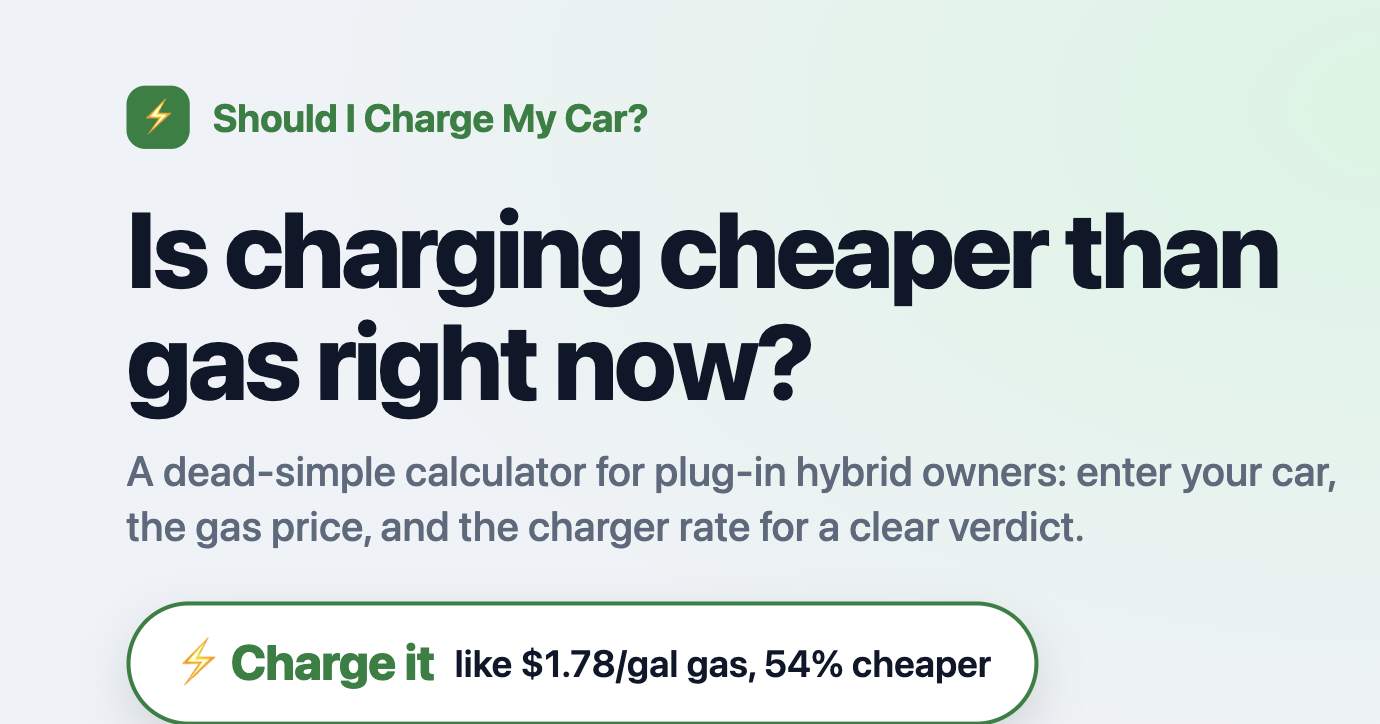
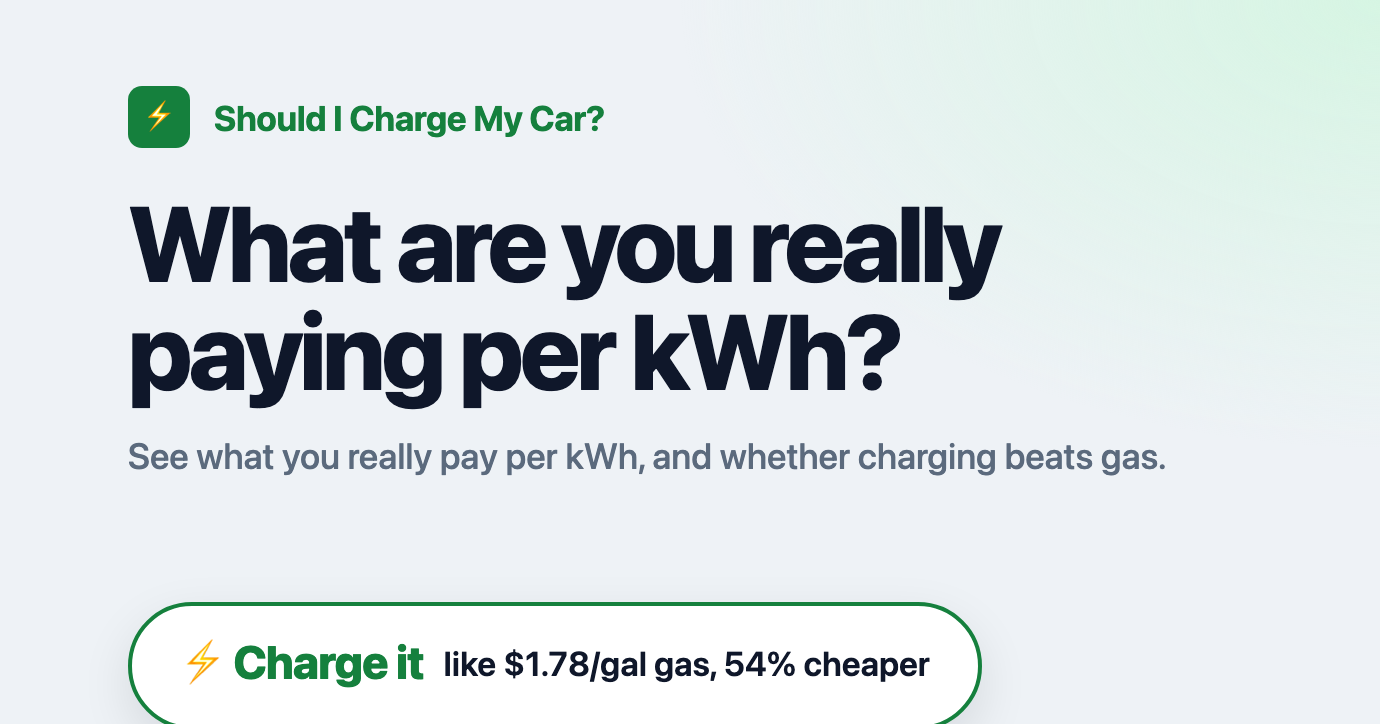
Describe the app for any car and fix two result card states
The tagline now reads "See what you really pay per kWh, and whether
charging beats gas." The app works the same for any car, so nothing
that describes it says it is for plug-in hybrid owners anymore: the
tab and link-preview titles, the search description, the structured
data, the no-JavaScript text, the install prompt, package.json, the
README and the link-preview image. The image now leads with "What are
you really paying per kWh?" with the tagline under it. Plug-in hybrids
are still named where they are the subject, like the car list and a
few FAQ answers.

It also fixes text that had gone out of date. The Charge time & cost
intro promised a price per kWh that the section doesn't show. The FAQ,
README and structured data counted 441 cars, which is 441 model years
of 176 models. The battery note called the size an EPA figure, but the
app estimates it from the EPA's electric range. The charger notes now
cover per-minute billing, prices that already include VAT, and 230 V
sockets. The FAQ now mentions saved cars and the currency and units
buttons.

The result card changes in two places. With My own car and MPG left
empty, it said "Pick your car" even though a car was picked. It now
names the missing field in your units, for example 'Fill in "Gas MPG"
under Adjust details', and still shows what the charge costs. A Charge
briefly card shows what the full charge costs again ("like $6.38/gal
gas, 64% pricier"), and the tip shows the short stop. Since July 28 the
[…]

diff --git a/index.html b/index.html
@@ -4,8 +4,8 @@
   <meta charset="UTF-8" />
   <meta name="viewport" content="width=device-width, initial-scale=1, viewport-fit=cover" />
   <meta name="theme-color" content="#15803d" />
-  <meta name="description" content="Is charging your plug-in hybrid cheaper than gas? Enter your car, gas price, and charger rate to get a straight answer plus your break-even price per kWh." />
-  <title>Should I Charge My Car? PHEV Charge-vs-Gas Calculator</title>
+  <meta name="description" content="See what you really pay per kWh at a charger, fees and all, and whether charging beats gas. Enter your car and the charger&rsquo;s price for a straight answer." />
+  <title>Should I Charge My Car? Charging Cost vs Gas Calculator</title>
 
   <!-- SEO + social link previews. Absolute URLs point at the custom domain;
        swapping this one base is enough if it ever changes again. Open Graph
@@ -16,29 +16,29 @@
   <meta property="og:type" content="website" />
   <meta property="og:site_name" content="Should I Charge My Car?" />
   <meta property="og:locale" content="en_US" />
-  <meta property="og:title" content="Should I Charge My Car? PHEV Charge-vs-Gas Calculator" />
-  <meta property="og:description" content="A dead-simple calculator that tells plug-in hybrid owners if charging is actually cheaper than gas right now, break-even price and all." />
+  <meta property="og:title" content="Should I Charge My Car? Charging Cost vs Gas Calculator" />
+  <meta property="og:description" content="A dead-simple calculator that shows what you really pay per kWh at a charger, and whether charging beats gas right now." />
   <meta property="og:url" content="https://shouldichargemycar.com/" />
   <meta property="og:image" content="https://shouldichargemycar.com/og-image.png" />
   <meta property="og:image:width" content="1380" />
   <meta property="og:image:height" content="724" />
-  <meta property="og:image:alt" content="Should I Charge My Car? A calculator that shows if charging a plug-in hybrid is cheaper than gas right now." />
+  <meta property="og:image:alt" content="Should I Charge My Car? What are you really paying per kWh? Example verdict: Charge it, like $1.78/gal gas, 54% cheaper." />
   <meta name="twitter:card" content="summary_large_image" />
   <meta name="twitter:image" content="https://shouldichargemycar.com/og-image.png" />
-  <meta name="twitter:image:alt" content="Should I Charge My Car? A calculator that shows if charging a plug-in hybrid is cheaper than gas right now." />
+  <meta name="twitter:image:alt" content="Should I Charge My Car? What are you really paying per kWh? Example verdict: Charge it, like $1.78/gal gas, 54% cheaper." />
   <script type="application/ld+json">
   {
     "@context": "https://schema.org",
     "@type": "WebApplication",
     "name": "Should I Charge My Car?",
     "url": "https://shouldichargemycar.com/",
-    "description": "A free calculator that tells plug-in hybrid (PHEV) owners whether charging is cheaper than gasoline right now, including the break-even price per kWh and real charger fees.",
+    "description": "A free calculator that shows what you really pay per kWh at a charger, real charger fees included, and whether charging is cheaper than gasoline right now, with the break-even price per kWh.",
     "applicationCategory": "UtilitiesApplication",
     "operatingSystem": "Any (web-based, installable PWA)",
     "browserRequirements": "Requires JavaScript",
     "inLanguage": "en",
     "isAccessibleForFree": true,
-    "dateModified": "2026-09-15",
+    "dateModified": "2026-10-09",
     "sameAs": "https://github.com/iCloud17/should-I-charge-my-car",
     "publisher": {
       "@type": "Organization",
@@ -52,7 +52,9 @@
       "Break-even price per kWh",
       "Real charger fees: time-of-day, by-duration, session and per-hour fees, taxes",
       "Charge-time and range estimate",
-      "441 plug-in hybrids from EPA data",
+      "176 plug-in hybrid models (2012 to 2026) from EPA data",
+      "Save several cars on your device",
+      "12 currencies, with US, UK and metric units",
       "Works offline, installable PWA, no login"
     ],
     "offers": { "@type": "Offer", "price": "0", "priceCurrency": "USD" }
@@ -81,7 +83,7 @@
          never see it. Gives non-JS crawlers (and AI retrieval bots that don't
          render JS) a plain-text description of what the tool does. -->
     <noscript>
-      <p>Should I Charge My Car? is a free calculator for plug-in hybrid (PHEV) owners. Enter your car, the local gas price, and the charger&rsquo;s price per kWh to see whether charging is cheaper than gas right now, including the break-even price per kWh and real charger fees. Please enable JavaScript to use the calculator.</p>
+      <p>Should I Charge My Car? is a free charging cost calculator. Enter your car and the charger&rsquo;s price per kWh to see what you really pay, fees included. Add the local gas price to see whether charging is cheaper than gas right now, and your break-even price per kWh. Please enable JavaScript to use the calculator.</p>
     </noscript>
     <header class="app__head">
       <div class="app__head-actions">
@@ -95,7 +97,7 @@
       </div>
       <div class="app__head-text">
         <h1 class="app__title">Should I Charge My Car?</h1>
-        <p class="app__tagline">See if charging your plug-in hybrid is cheaper than filling up on gas.</p>
+        <p class="app__tagline">See what you really pay per kWh, and whether charging beats gas.</p>
       </div>
     </header>
 
@@ -136,14 +138,13 @@
         document.getElementById("carTile").dataset.prepaintOpen = document.getElementById("carTile").open;
       </script>
       <div class="disclosure__body">
-        <!-- Saved cars. Empty and hidden until a SECOND car exists: one car needs
-             no switcher, and a user who owns one car must not pay for this. -->
+        <!-- Saved cars: hidden until the first car is saved. -->
         <div class="my-cars" id="myCarsRow" role="radiogroup" aria-label="Your saved cars" hidden></div>
         <div class="field">
           <div class="field-label-row">
             <label for="carSearch">Your car</label>
             <button type="button" id="carInfoBtn" class="info-btn" aria-label="Why isn't my exact year listed?" aria-expanded="false">i</button>
-            <p class="hint info-note" id="carInfoNote" hidden>Don&rsquo;t see your exact year? Pick the closest one. A PHEV&rsquo;s MPG and efficiency barely change within a generation, so the answer comes out about the same. Not listed, or want exact numbers? Pick &ldquo;My own car&rdquo; to enter your own.<br /><br />Car data: US EPA &amp; DOE (<a href="https://www.fueleconomy.gov" target="_blank" rel="noopener">fueleconomy.gov</a>).</p>
+            <p class="hint info-note" id="carInfoNote" hidden>Don&rsquo;t see your exact year? Pick the closest one. A car&rsquo;s MPG and efficiency barely change within a generation, so the answer comes out about the same. The list only has plug-in hybrids. Not listed, or want exact numbers? Pick &ldquo;My own car&rdquo; to enter your own.<br /><br />Car data: US EPA &amp; DOE (<a href="https://www.fueleconomy.gov" target="_blank" rel="noopener">fueleconomy.gov</a>).</p>
           </div>
           <div class="combo">
             <!-- enterkeyhint=done: Enter finishes with the picker and stays put. It never runs a search (filtering is live on input) and never advances a field. -->
@@ -196,11 +197,11 @@
               <div class="field-label-row">
                 <label for="batteryKwh">Battery size (kWh)</label>
                 <button type="button" id="batteryInfoBtn" class="info-btn" aria-label="What battery size should I use?" aria-expanded="false">i</button>
-                <p class="hint info-note" id="batteryInfoNote" hidden>Your car&rsquo;s <em>usable</em> capacity, the part you actually charge, not the full pack size a maker advertises. It&rsquo;s an EPA estimate, so it&rsquo;s approximate and can vary by year. It affects the charge time and total cost.</p>
+                <p class="hint info-note" id="batteryInfoNote" hidden>Your car&rsquo;s <em>usable</em> capacity, the part you actually charge, not the full pack size a maker advertises. For a car from the list, it&rsquo;s estimated from the EPA&rsquo;s electric range, so it&rsquo;s approximate and can vary by year.</p>
               </div>
               <input id="batteryKwh" type="text" min="0" step="any" inputmode="decimal" autocomplete="off" value="" />
             </div>
-            <p class="hint">Auto-filled from your car. Only change these if you track your own real-world numbers. MPG and mi/kWh drive the break-even. Battery size drives the charge time and total.</p>
+            <p class="hint">Filled in for cars from the list. Only change these if you track your own real-world numbers. The gas and electric figures set the break-even, and battery size sets the charge time and total.</p>
           </div>
         </details>
       </div>
@@ -278,7 +279,7 @@
             <div class="field-label-row">
               <label for="powerKw">Charge power</label>
               <button type="button" id="powerInfoBtn" class="info-btn" aria-label="What charge power should I enter?" aria-expanded="false">i</button>
-              <p class="hint info-note" id="powerInfoNote" hidden>The charger you&rsquo;re plugged into, not your car. Your car&rsquo;s onboard charger caps how fast it takes power. For a car from the list, the estimate already uses whichever is lower. With &ldquo;My own car&rdquo;, enter the lower one yourself. The speed sets how long the charge takes, which also changes the total if the station bills by the hour or by duration. Edit this when the charger&rsquo;s rate differs from the Level 1 or Level 2 presets. We treat anything above 22 kW as 22, the top of the common AC range. New charger puts it back at 6.6, and so does your next visit.</p>
+              <p class="hint info-note" id="powerInfoNote" hidden>The charger you&rsquo;re plugged into, not your car. For a car from the list, the estimate already caps it at what your car can take; with &ldquo;My own car&rdquo;, enter whichever is lower. It sets the charge time, and the total too if the station bills by the hour or by duration. Level 1 is a North American 120 V socket; a 230 V socket gives about 2.3 kW. Anything above 22 kW counts as 22, the top of the common AC range. New charger and your next visit put it back at 6.6.</p>
             </div>
             <div class="speed__row">
               <div class="presets" id="powerPresets" role="group" aria-labelledby="speedTitle">
@@ -311,7 +312,7 @@
             <div class="field-label-row">
               <label>Station time rate while connected</label>
               <button type="button" id="timeFeeInfoBtn" class="info-btn" aria-label="What is the station time rate?" aria-expanded="false">i</button>
-              <p class="hint info-note" id="timeFeeInfoNote" hidden>An hourly fee for staying plugged in, on top of the energy cost. Example: free for the first 4 hr, then $5/hr.</p>
+              <p class="hint info-note" id="timeFeeInfoNote" hidden>An hourly fee for staying plugged in, on top of the energy cost. Example: free for the first 4 hr, then 5 per hour. If the charger bills by the minute, enter the per-minute price times 60. If that&rsquo;s all it charges, set the energy rate to 0.</p>
             </div>
             <div id="timeFeeRows" class="tou-rows"></div>
             <button type="button" id="timeFeeAdd" class="link tou-add"><span class="tou-add__plus">+</span> Add rate</button>
@@ -320,7 +321,7 @@
             <div class="field-label-row">
               <label>Taxes</label>
               <button type="button" id="taxInfoBtn" class="info-btn" aria-label="How are taxes applied?" aria-expanded="false">i</button>
-              <p class="hint info-note" id="taxInfoNote" hidden>A percentage added to the whole bill. Add one row per line on the charger&rsquo;s screen (e.g. state 6.25%, city 1%); we total them.</p>
+              <p class="hint info-note" id="taxInfoNote" hidden>A percentage added to the whole bill. Add one row per line on the charger&rsquo;s screen (e.g. state 6.25%, city 1%); we total them. Skip this if the price already includes tax, as it usually does where there&rsquo;s VAT.</p>
             </div>
             <div id="taxRows" class="tou-rows"></div>
             <button type="button" id="taxAdd" class="link tou-add"><span class="tou-add__plus">+</span> Add tax</button>
@@ -333,7 +334,7 @@
     <details class="card disclosure" id="advanced">
       <summary>Charge time &amp; cost</summary>
       <div class="disclosure__body">
-        <p class="hint hint--lead">Set how full the battery is now and how full you want it, and when to stop if the charger bills by time. Then see how long it takes, the range you add, and the all-in price per kWh.</p>
+        <p class="hint hint--lead">Set how full the battery is now and how full you want it, and when to stop if the charger bills by time. Then see how long it takes, the range you add, and the total cost.</p>
 
         <div class="field">
           <label for="startPct">Battery now: <output id="startPctOut">0%</output></label>
@@ -345,8 +346,8 @@
         </div>
         <!-- The charger's, not the battery's, though it sits by the battery
              sliders it stops: it shows only with a time fee or By duration,
-             and a dragged one would override the next charger's own "charge
-             briefly" pick, so New charger clears it. -->
+             and a dragged one would carry over to the next charger, so New
+             charger clears it. -->
         <div class="field" id="chargeForField" hidden>
           <label for="chargeForMin">Charge for: <output id="chargeForOut">-</output></label>
           <input id="chargeForMin" type="range" min="0" max="180" step="1" value="180" />
@@ -385,8 +386,8 @@
         <details class="faq__item">
           <summary><h2 class="faq__q">How do I calculate charging cost vs gas?</h2></summary>
           <ol class="faq__steps">
-            <li>Pick your car, or choose &ldquo;My own car&rdquo; to enter your own numbers.</li>
-            <li>Enter today&rsquo;s gas price.</li>
+            <li>Pick your car, or choose &ldquo;My own car&rdquo; to enter your own numbers. To keep several cars, tap &ldquo;Add this car&rdquo; for each one, then switch between them at the top of the car section.</li>
+            <li>Enter today&rsquo;s gas price. The buttons at the top right set your currency and units.</li>
             <li>Enter the charger&rsquo;s price per kWh. For time-of-day or tiered pricing, pick &ldquo;Time of day&rdquo; or &ldquo;By duration&rdquo; above the rate. &ldquo;Charger speed&rdquo; starts at Level 2 (6.6 kW), so change it if you plug into a wall socket (Level 1) or the station lists its own kW. Add session, hourly, or tax charges under &ldquo;Fees&rdquo; in the same Charger section.</li>
             <li>Read the verdict at the top. It updates as you type. Your car, gas price, and settings are saved for next time. The battery sliders and the charger&rsquo;s price, fees, and speed start fresh each visit.</li>
             <li>At the next charger, tap &ldquo;New charger&rdquo; to clear the last one&rsquo;s price, fees, and speed. &ldquo;Undo&rdquo; puts them back.</li>
@@ -417,7 +418,7 @@
 
         <details class="faq__item">
           <summary><h2 class="faq__q">My car isn&rsquo;t listed.</h2></summary>
-          <p class="faq__a">Choose &ldquo;My own car&rdquo; and enter your MPG, miles per kWh, and battery size. The list covers 441 US models from 2012 to 2026, so cars sold only in the UK or Europe are missing.</p>
+          <p class="faq__a">Choose &ldquo;My own car&rdquo; and enter your MPG, miles per kWh, and battery size. The list only covers 176 US plug-in hybrid models from 2012 to 2026, so any other car is missing, including ones sold only in the UK or Europe. Leave MPG empty and you still get the cost of each charge and what you really pay per kWh.</p>
         </details>
       </div>
     </details>

diff --git a/js/cardUi.js b/js/cardUi.js
@@ -84,6 +84,21 @@ function missingGasOrChargerPrompt(rateMode) {
   return "Start with your gas price or the energy rate. Add both to see which is cheaper.";
 }
 
+function chargerPricePrompt(rateMode) {
+  if (rateMode === "tod") return "Add time-of-day rates to see what this charge costs.";
+  if (rateMode === "dur") return "Add duration tiers to see what this charge costs.";
+  return "Enter the energy rate to see what this charge costs.";
+}
+
+// The car figures a break-even still needs, named as their fields are labelled.
+function missingFigures(m, units) {
+  const L = labels(units);
+  const names = [];
+  if (!Number.isFinite(m.mpg)) names.push(`\u201cGas ${L.fuelEconomy}\u201d`);
+  if (!Number.isFinite(m.miPerKwh)) names.push(`\u201cElectric ${L.evEfficiency}\u201d`);
+  return names.join(" and ");
+}
+
 // Whether the "For this charge" row can turn the energy added into a distance.
 const hasDistance = (miPerKwh) => Number.isFinite(miPerKwh) && miPerKwh > 0;
 
@@ -111,7 +126,7 @@ const canSizeCharge = (m, drawKw) => m.batteryKwh > 0 && drawKw > 0;
 // promise a comparison there. And when that charge cannot be sized it shows no
 // cost either, so the sub asks for the gas price as well, which together with
 // a higher target gets a verdict on the rate alone.
-function nothingToChargeCard(m, hasGas, showBriefly, canSize) {
+function nothingToChargeCard(m, hasGas, showBriefly, canSize, ask = "add your gas price") {
   const atFull = batteryFull(m);
   return {
     verdict: "none",
@@ -119,7 +134,7 @@ function nothingToChargeCard(m, hasGas, showBriefly, canSize) {
     sub: atFull
       ? "Already full, so there's nothing to charge."
       : !hasGas && !canSize
-        ? `At your ${Math.round(m.targetPct)}% target. Raise \u201cCharge to\u201d and add your gas price to compare.`
+        ? `At your ${Math.round(m.targetPct)}% target. Raise \u201cCharge to\u201d and ${ask} to compare.`
         : `Already at your ${Math.round(m.targetPct)}% target. Raise \u201cCharge to\u201d ${hasGas ? "to compare" : "to see what it costs"}.`,
     detailLine: hiddenLine(),
     timeline: hiddenLine(),
@@ -181,14 +196,20 @@ export function cardFor(model) {
   const {
     m, be, cur, units, hasRate, session, full, drawKw,
     effective, showEffective, inclNote, rateMode, schedule, hasTimeTiers,
-    worthLimitMin, fullNotWorth, tip, showBriefly, now,
+    worthLimitMin, fullNotWorth, tip, showBriefly, now, carChosen,
   } = model;
 
   if (!Number.isFinite(be)) {
     const haveCar = Number.isFinite(m.mpg) && Number.isFinite(m.miPerKwh);
+    // A chosen car missing a figure is costed like a car with no gas price,
+    // and asked for the figure rather than for a car.
+    const missing = !haveCar && carChosen ? missingFigures(m, units) : "";
+    const costable = haveCar || missing !== "";
     const chargeIsSized = session.kwhFromCharger > 0;
-    if (haveCar && hasRate && nothingToCharge(m)) return nothingToChargeCard(m, false, showBriefly, canSizeCharge(m, drawKw));
-    if (haveCar && hasRate && buysNoEnergy(session, full)) return noChargeSelectedCard(showBriefly);
+    if (costable && hasRate && nothingToCharge(m)) {
+      return nothingToChargeCard(m, false, showBriefly, canSizeCharge(m, drawKw), missing ? `fill in ${missing}` : undefined);
+    }
+    if (costable && hasRate && buysNoEnergy(session, full)) return noChargeSelectedCard(showBriefly);
     if (hasRate && chargeIsSized) {
       // No gas price means no verdict, but the cost of the stop never needed one.
       return {
@@ -196,7 +217,9 @@ export function cardFor(model) {
         headline: money(session.totalCost, cur),
         sub: haveCar
           ? "Cost of this charge. Add your gas price to see if it beats filling up."
-          : "Cost of this charge. Pick your car to compare it with gas.",
+          : missing
+            ? `Cost of this charge. Fill in ${missing} under Adjust details to compare it with gas.`
+            : "Cost of this charge. Pick your car to compare it with gas.",
         detailLine: {
           hidden: false,
           text: showEffective
@@ -220,7 +243,11 @@ export function cardFor(model) {
         ? !hasRate && chargeIsSized
           ? missingGasOrChargerPrompt(rateMode)
           : "Enter your local gas price to see the break-even."
-        : "Pick your car to start.",
+        : missing
+          ? !hasRate && chargeIsSized
+            ? chargerPricePrompt(rateMode)
+            : `${Number.isFinite(m.gasPrice) ? "Fill" : "Add your gas price and fill"} in ${missing} under Adjust details to see the break-even.`
+          : "Pick your car to start.",
       detailLine: hiddenLine(),
       timeline: hiddenLine(),
       touNote: hiddenLine(),

diff --git a/js/main.js b/js/main.js
@@ -164,11 +164,10 @@ function render() {
   // the target isn't itself a confident win but the best-value stop is.
   const showBriefly = !!(tip && vFull !== "worth");
 
-  // Display selection: the slider if the user set it, else the recommended
-  // partial charge when we're steering them to stop early, else the full charge.
+  // Display selection: the slider if the user set it, else the full charge. A
+  // Charge briefly card shows what the full charge costs; its tip prices the stop.
   let cap = Infinity;
   if (canStopEarly && capTouched && Number.isFinite(chargeCapMin) && chargeCapMin < fullChargeMin - 0.5) cap = chargeCapMin;
-  else if (showBriefly && !capTouched) cap = tip.min;
   const session = cap === Infinity ? full : chargeCurve({ ...curveArgs, capMinutes: cap });
 
   const showChargeFor = canStopEarly && fullChargeMin > 0;
@@ -202,6 +201,7 @@ function render() {
     m, be, cur, units: prefs.units, hasRate, session, full,
     drawKw, effective, showEffective, inclNote, rateMode, schedule, hasTimeTiers,
     worthLimitMin, fullNotWorth, tip, showBriefly,
+    carChosen: Boolean(prefs.carId),
     now: nowMin,
   });
 

diff --git a/README.md b/README.md
@@ -2,9 +2,9 @@
 
 **[Try it live &rarr;](https://shouldichargemycar.com)**
 
-A dead-simple calculator for **plug-in hybrid (PHEV)** owners that answers one question: **is charging actually cheaper than just burning gas right now?**
+A dead-simple calculator that answers two questions at the charger: **what are you really paying per kWh**, and **is charging actually cheaper than just burning gas right now?**
 
-A PHEV runs on either electricity or gasoline, so every charge is a real choice, and public charging (or a pricey home rate) can easily cost more per mile than gas. Enter your car, the local gas price, and what the charger costs, and you get a clear verdict, the break-even price, and how much you save or overpay. Built to check on your phone while you're standing at the charger.
+The price on the charger is rarely the whole bill. Session fees, hourly fees and tax add up, and public charging (or a pricey home rate) can easily cost more per mile than gas. Enter your car, what the charger costs, and the local gas price, and you get what you really pay per kWh, a clear verdict, the break-even price, and how much you save or overpay. Built to check on your phone while you're standing at the charger.
 
 <p align="center">
   <img src="screenshots/verdict-charge-it.png" width="250" alt="Charge it verdict on flat pricing: like $1.78/gal gas, 54% cheaper" />
@@ -18,24 +18,25 @@ A PHEV runs on either electricity or gasoline, so every charge is a real choice,
 
 ## How to use it
 
-1. **Pick your car.** Search 441 plug-in hybrids, or choose &ldquo;My own car&rdquo; to enter your own MPG and efficiency.
+1. **Pick your car.** Search 176 plug-in hybrid models, or choose &ldquo;My own car&rdquo; to enter your own numbers for any car.
 2. **Enter the local gas price.** What you&rsquo;d pay at the pump right now.
 3. **Enter what the charger costs.** The $/kWh shown on the charger. Not a flat rate? Switch to time-of-day or by-duration pricing, and add any session, per-hour, or tax fees the screen lists.
-4. **Read the verdict.** Charge it, Toss-up, Use gas, or Charge briefly, with the break-even price and how much you save or overpay per mile.
+4. **Read the verdict.** Charge it, Toss-up, Use gas, or Charge briefly, with what you really pay per kWh, the break-even price, and how much you save or overpay per mile.
 
-That&rsquo;s it. Your cars, the gas price and your settings save on your device, so next time it&rsquo;s glance-and-go, even offline. The battery sliders and the charger&rsquo;s rate, fees and speed start fresh each visit, since those are facts about the stop you&rsquo;re at.
+That&rsquo;s it. Your cars, the gas price and your settings save on your device, so next time it&rsquo;s glance-and-go, even offline. The battery sliders and the charger&rsquo;s rate, fees and speed start fresh each visit, since those are facts about the stop you&rsquo;re at. At the next stop, **New charger** clears the last charger&rsquo;s details in one tap.
 
 ## What it does
 
 - Gives a clear verdict at a glance: **Charge it**, **Toss-up**, **Use gas**, or **Charge briefly**.
+- Shows what you really pay per kWh once session fees, hourly fees and tax are in, and what the whole charge costs, even before you enter a gas price.
 - Calculates the break-even charging price: the highest $/kWh at which charging still beats gas for your car.
 - Puts it in plain terms, e.g. "like $1.78/gal gas, 54% cheaper."
 - Estimates how long to charge to your target level, and the range you add.
 - Handles real charger pricing: flat, time-of-day (peak/off-peak), or by-duration tiers, plus one-time session fees, per-hour connected-time fees, and percentage sales taxes.
 - Finds the **sweet spot** when charging gets pricier the longer you go: how long to charge for the best deal, with a "Charge for" slider to price partial charges.
-- Includes 441 plug-in hybrids from the US EPA (2012 to 2026), searchable, or enter your own numbers.
+- Includes 176 plug-in hybrid models from the US EPA (2012 to 2026), searchable, or enter your own numbers for any car.
 - **Saves up to 5 cars**, each with its own nickname and its own numbers. Useful for a two-car household, or for one car you drive two very different ways.
-- Supports US, UK, and metric units (L/100km or km/L), and any currency.
+- Supports US, UK, and metric units (L/100km or km/L), and 12 currencies.
 - Saves your cars on your device and works offline (installable PWA).
 
 ## How it works
